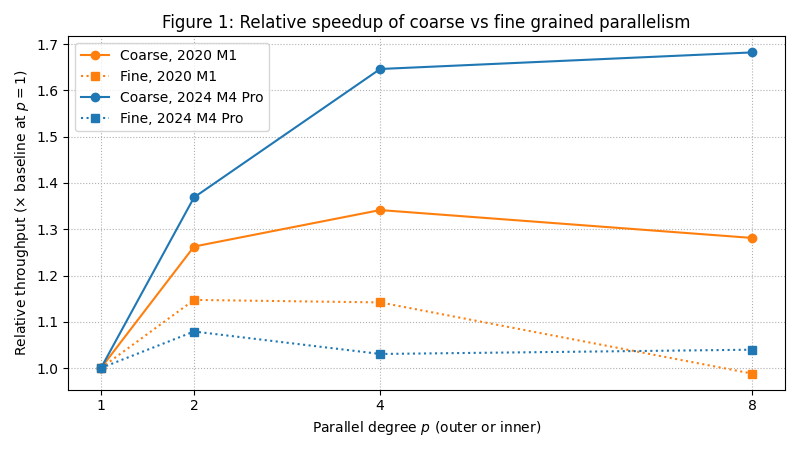
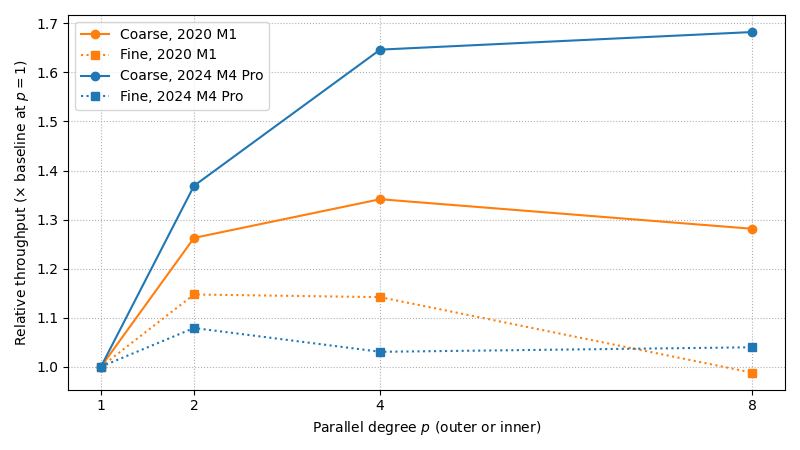
update figure formatting

diff --git a/docs/reports/parallel_matrix_ops/parallel_matrix_ops.tex b/docs/reports/parallel_matrix_ops/parallel_matrix_ops.tex
@@ -78,17 +78,6 @@ Both modules, $sameA$ and $manyA$, leverage the $spd$ helper to construct random
 \label{sec:headings}
 Table 1 ~\ref{tab:table1} below details the results of running the benchmark suite configured for $256 x 256$ matrix ($n=256$) and 256 scenarios ($S=256$) on two machines: a 2020 Apple M1 with eight CPU Cores and a 2024 Apple M4 Pro with twelve CPU Cores. As illustrated in Figure 1 ~\ref{fig:figure1}, performance improvements for fine grained parallelism quickly plateau, and we see near identical scaling patterns on both machines, despite core count differences. In these runs, there is a slight performance boost increasing from one to two BLAS threads, but it degrades thereafter. Course grained parallelism scaled up to four processes on the M1, and degraded thereafter. On the M4 Pro, it scaled almost linearly up to eight. For course grained runs, absolute throughput roughly doubles from the M1 to the M4 Pro. Hybrid parallelism provides modest gains over coarse grained parallelism on the M1 machine, but comparatively underperforms on the M4 Pro.
 
-
-\begin{figure}[H]  
-  \centering
-  \label{fig:figure1}
-  \includegraphics[width=1\textwidth]{./benchmark_speedup_relative.png}
-   %%% \caption{Relative speedup of coarse (\texttt{manyA}) and fine
-  %%% (\texttt{sameA}) workloads on a 2020 Apple M1 (8-core) and a 2024 Apple M4 Pro
-  %%% (12-core). Throughput for each curve is normalized to the $p=1$ configuration.}
-\end{figure}
-
-
 \begin{table}[H]
   \label{tab:table1}
   \caption{Benchmark Performance Results}
@@ -125,6 +114,16 @@ Table 1 ~\ref{tab:table1} below details the results of running the benchmark sui
   \end{tabular}
   %\caption{}
 \end{table}
+
+\begin{figure}[H]  
+  \centering
+  \label{fig:figure1}
+  \caption{Relative speedup of coarse and fine grained parallism}
+  \includegraphics[width=.7\textwidth]{./benchmark_speedup_relative.png}
+   %%% \caption{Relative speedup of coarse (\texttt{manyA}) and fine
+  %%% (\texttt{sameA}) workloads on a 2020 Apple M1 (8-core) and a 2024 Apple M4 Pro
+  %%% (12-core). Throughput for each curve is normalized to the $p=1$ configuration.}
+\end{figure}
 
 
 \section{Discussion}
